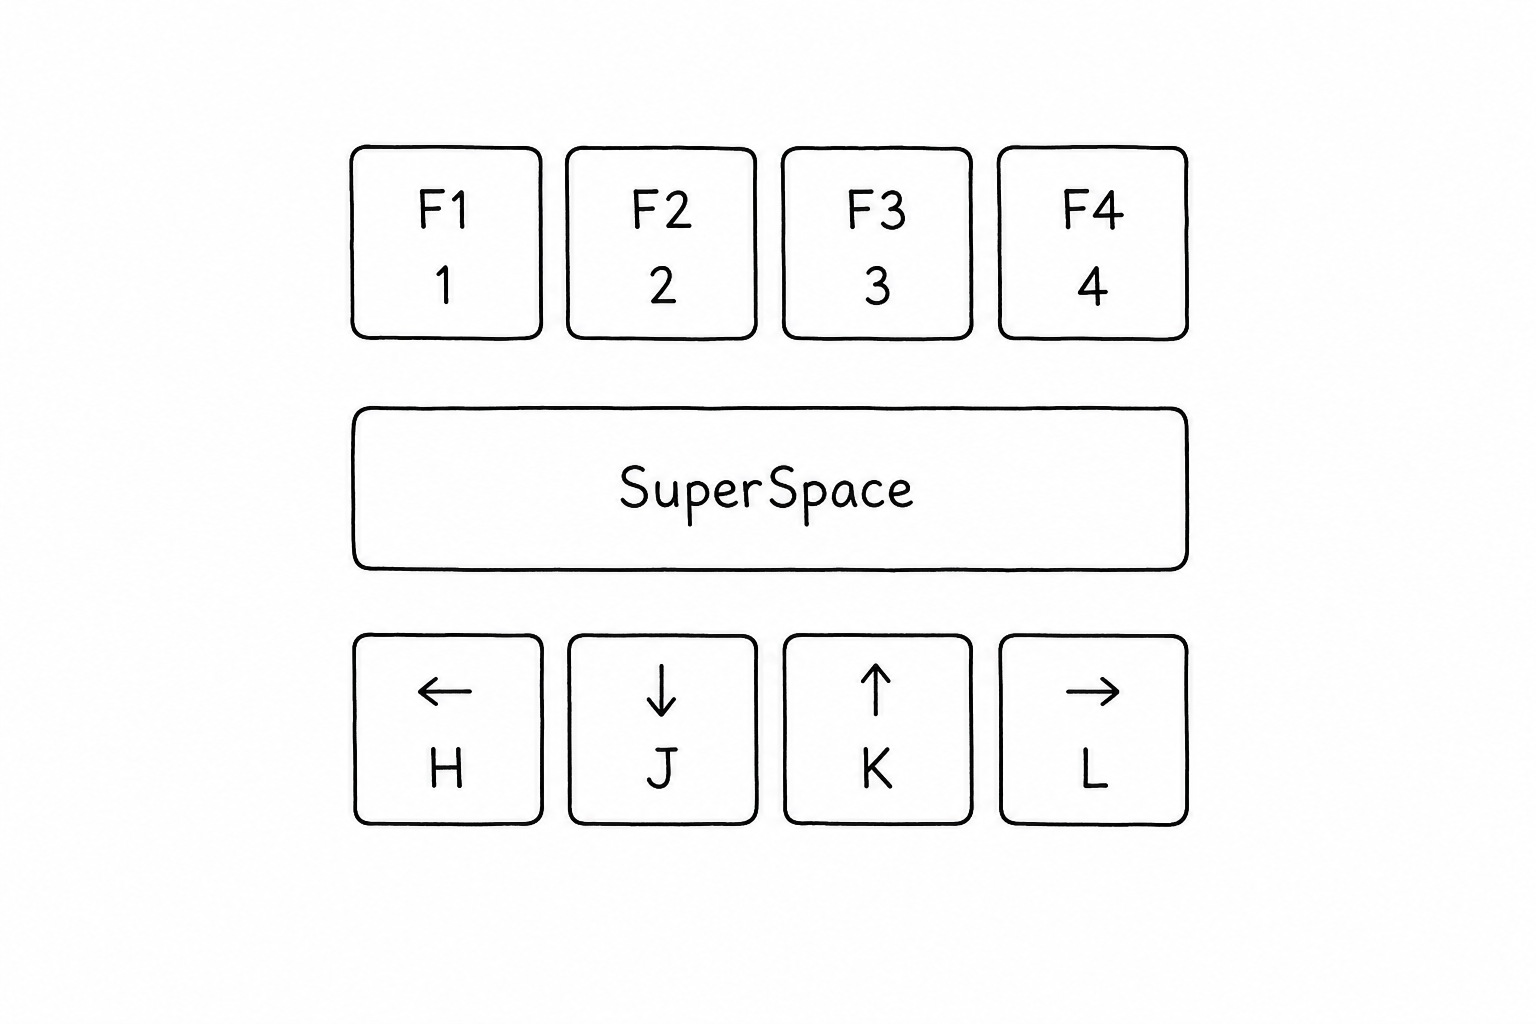
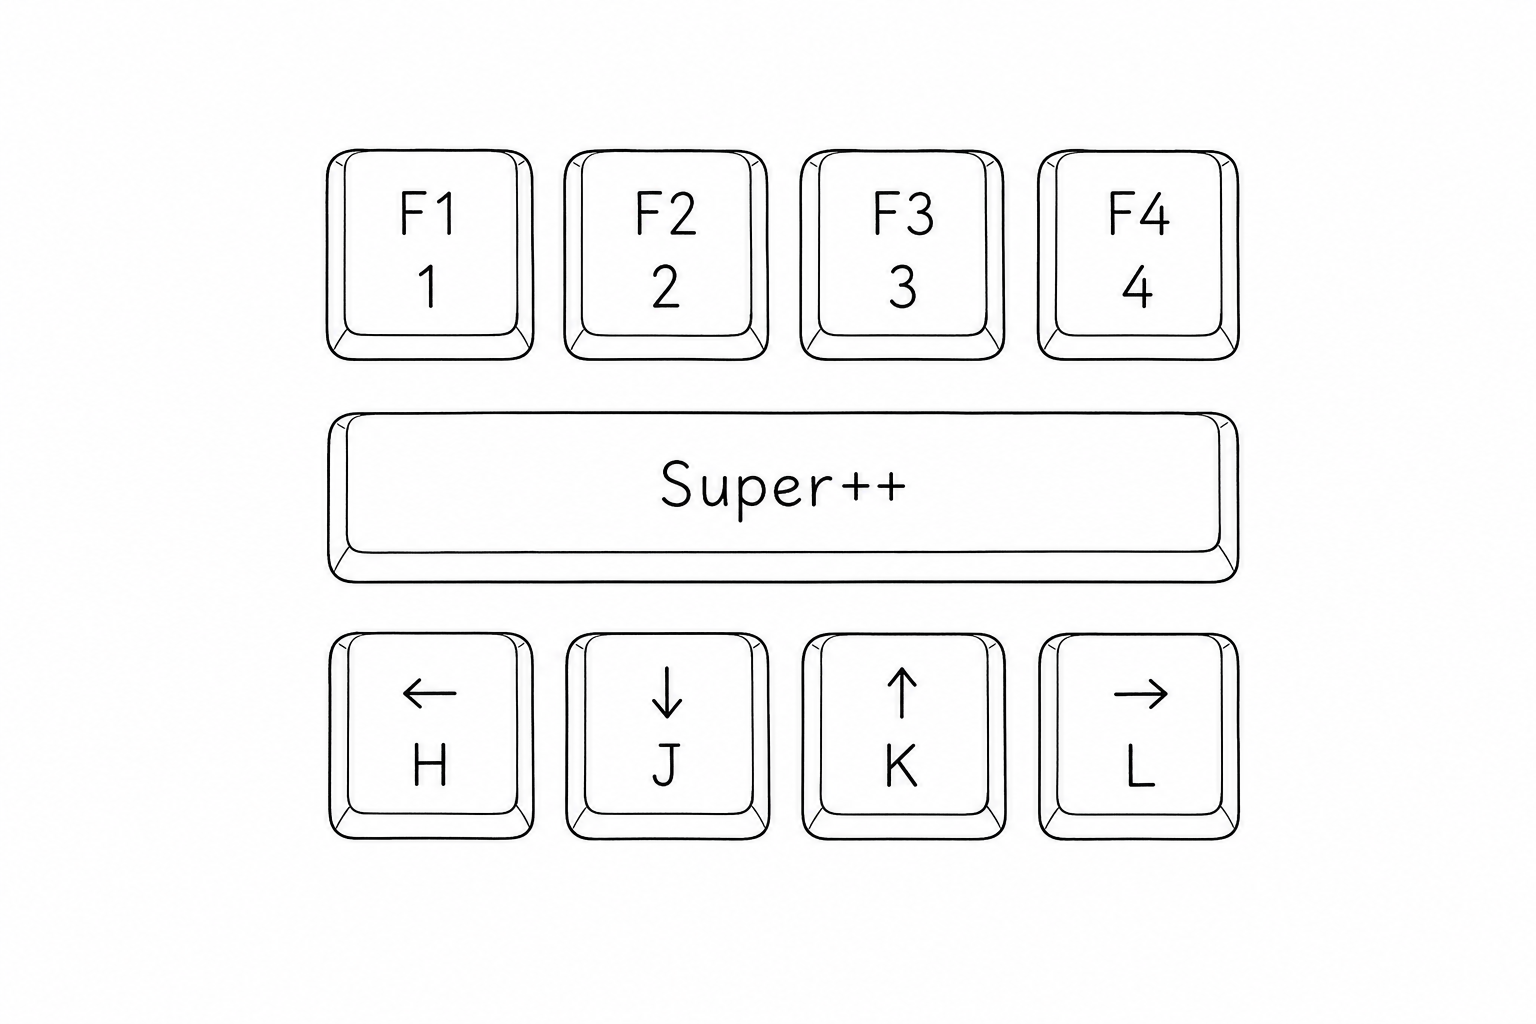
rename: unify product name to Super++ (v1.1.0)

diff --git a/src/main.rs b/src/main.rs
@@ -1,5 +1,5 @@
-//! Space++ for Windows: the space bar becomes a Hyper key.
-//! Port of the macOS version (SuperSpace); the state machine is in
+//! Super++ for Windows: the space bar becomes a Hyper key.
+//! Port of the macOS original; the state machine is in
 //! `state_machine.rs`, this file wires it to the OS (hook, tray, config).
 
 #![cfg_attr(not(test), windows_subsystem = "windows")]
@@ -166,7 +166,7 @@ unsafe extern "system" fn wnd_proc(hwnd: HWND, msg: u32, wparam: WPARAM, lparam:
                                 .map(|a| a.about_text.clone())
                                 .unwrap_or_default()
                         });
-                        let title = wide("关于 Space++ (Win)");
+                        let title = wide("关于 Super++");
                         let body = wide(&text);
                         MessageBoxW(hwnd, body.as_ptr(), title.as_ptr(), MB_OK | MB_ICONINFORMATION);
                     }
@@ -203,7 +203,7 @@ unsafe extern "system" fn wnd_proc(hwnd: HWND, msg: u32, wparam: WPARAM, lparam:
 }
 
 fn error_box(text: &str) {
-    let title = wide("Space++ (Win)");
+    let title = wide("Super++");
     let body = wide(text);
     unsafe {
         MessageBoxW(std::ptr::null_mut(), body.as_ptr(), title.as_ptr(), MB_OK | MB_ICONERROR);
@@ -214,11 +214,11 @@ fn main() {
     logger::init();
 
     // Single instance.
-    let mutex_name = wide("SpacePP_Win_SingleInstance");
+    let mutex_name = wide("SuperPP_Win_SingleInstance");
     unsafe {
         CreateMutexW(std::ptr::null(), 0, mutex_name.as_ptr());
         if GetLastError() == ERROR_ALREADY_EXISTS {
-            error_box("Space++ 已在运行。");
+            error_box("Super++ 已在运行。");
             return;
         }
     }
@@ -232,11 +232,11 @@ fn main() {
         .as_ref()
         .map(|p| p.display().to_string())
         .unwrap_or_else(|| "(内置默认配置)".to_string());
-    logger::log(&format!("[SpacePP] start, config: {config_desc}"));
+    logger::log(&format!("[Super++] start, config: {config_desc}"));
 
     // Hidden window that owns the tray icon.
     let hinstance = unsafe { GetModuleHandleW(std::ptr::null()) };
-    let class_name = wide("SpacePPWnd");
+    let class_name = wide("SuperPPWnd");
     let mut wc: WNDCLASSW = unsafe { std::mem::zeroed() };
     wc.lpfnWndProc = Some(wnd_proc);
     wc.hInstance = hinstance;
@@ -245,7 +245,7 @@ fn main() {
         error_box("窗口类注册失败。");
         return;
     }
-    let title = wide("Space++");
+    let title = wide("Super++");
     let hwnd = unsafe {
         CreateWindowExW(
             0,
@@ -267,9 +267,9 @@ fn main() {
         return;
     }
 
-    let tray = Tray::new(hwnd, &format!("Space++ {VERSION} - 正在运行"));
+    let tray = Tray::new(hwnd, &format!("Super++ {VERSION} - 正在运行"));
     let about_text = format!(
-        "Space++ (Win) 版本 {VERSION}\n\n将空格键变成 Hyper 键的键盘效率工具。\n\n配置文件：{config_desc}\n日志：%TEMP%\\spacepp.log\n\n© 2026 Quan Zhou"
+        "Super++ 版本 {VERSION}\n\n将空格键变成 Hyper 键的键盘效率工具。\n\n配置文件：{config_desc}\n日志：%TEMP%\\superpp.log\n\n© 2026 Quan Zhou"
     );
 
     APP.with(|cell| {
@@ -296,7 +296,7 @@ fn main() {
         });
         return;
     }
-    logger::log("[SpacePP] keyboard hook ready");
+    logger::log("[Super++] keyboard hook ready");
     lock_guard::enable();
 
     let mut msg: MSG = unsafe { std::mem::zeroed() };
@@ -317,5 +317,5 @@ fn main() {
             app.tray.remove();
         }
     });
-    logger::log("[SpacePP] exit");
+    logger::log("[Super++] exit");
 }

diff --git a/src/config.rs b/src/config.rs
@@ -52,18 +52,21 @@ pub struct Config {
     pub map: HashMap<u16, Vec<Keys>>,
     pub verbose: VerboseConfig,
     pub hold_as_hyper: bool,
-    /// Foreground process exe names for which Space++ is disabled.
+    /// Foreground process exe names for which Super++ is disabled.
     pub blacklist: Vec<String>,
     pub path: Option<PathBuf>,
 }
 
-/// Same lookup order as the mac version: SPACEPP_CONFIG env var,
-/// then config.json next to the executable, then the current directory.
+/// Same lookup order as the mac version: SUPERPP_CONFIG (or legacy
+/// SPACEPP_CONFIG) env var, then config.json next to the executable,
+/// then the current directory.
 pub fn resolve_path() -> Option<PathBuf> {
-    if let Ok(p) = env::var("SPACEPP_CONFIG") {
-        let p = PathBuf::from(p);
-        if p.exists() {
-            return Some(p);
+    for key in ["SUPERPP_CONFIG", "SPACEPP_CONFIG"] {
+        if let Ok(p) = env::var(key) {
+            let p = PathBuf::from(p);
+            if p.exists() {
+                return Some(p);
+            }
         }
     }
     if let Ok(exe) = env::current_exe() {

diff --git a/src/lock_guard.rs b/src/lock_guard.rs
@@ -2,9 +2,9 @@
 //!
 //! winlogon matches Win+L on raw input, before low-level hook suppression
 //! applies, so a physical Win+L cannot be blocked from user mode. Instead,
-//! while Space++ runs, the DisableLockWorkstation policy is enabled so the
+//! while Super++ runs, the DisableLockWorkstation policy is enabled so the
 //! OS ignores Win+L entirely; an intentional bare Win+L (Win held in IDLE)
-//! is detected by the hook and Space++ locks the workstation itself by
+//! is detected by the hook and Super++ locks the workstation itself by
 //! briefly lifting the policy around a LockWorkStation() call. The policy
 //! is re-enabled when the session unlocks.
 
@@ -70,7 +70,7 @@ fn set_lock_disabled(disabled: bool) -> bool {
     status == 0 || (!disabled && status == 2)
 }
 
-/// Called on startup: OS-level Win+L off while Space++ runs.
+/// Called on startup: OS-level Win+L off while Super++ runs.
 pub fn enable() {
     if set_lock_disabled(true) {
         logger::log("[lock_guard] Win+L policy guard enabled");

diff --git a/src/logger.rs b/src/logger.rs
@@ -1,6 +1,5 @@
 //! Minimal file logger. The exe is a windows-subsystem binary (no console),
-//! so verbose output goes to %TEMP%\spacepp.log, mirroring the mac
-//! version's /tmp/spacepp.out.
+//! so verbose output goes to %TEMP%\superpp.log.
 
 use std::fs::{File, OpenOptions};
 use std::io::Write;
@@ -9,7 +8,7 @@ use std::sync::Mutex;
 static LOG: Mutex<Option<File>> = Mutex::new(None);
 
 pub fn init() {
-    let path = std::env::temp_dir().join("spacepp.log");
+    let path = std::env::temp_dir().join("superpp.log");
     if let Ok(f) = OpenOptions::new().create(true).append(true).open(&path) {
         *LOG.lock().unwrap() = Some(f);
     }

diff --git a/src/tray.rs b/src/tray.rs
@@ -187,7 +187,7 @@ pub fn show_menu(hwnd: HWND, autostart_enabled: bool) -> usize {
         if menu.is_null() {
             return 0;
         }
-        let about = wide("关于 Space++ (Win)");
+        let about = wide("关于 Super++");
         let autostart = wide("开机自启");
         let exit = wide("退出");
         AppendMenuW(menu, MF_STRING, MENU_ABOUT, about.as_ptr());

diff --git a/src/autostart.rs b/src/autostart.rs
@@ -8,7 +8,7 @@ use windows_sys::Win32::System::Registry::{
 use crate::tray::wide;
 
 const RUN_KEY: &str = r"Software\Microsoft\Windows\CurrentVersion\Run";
-const VALUE_NAME: &str = "SpacePP";
+const VALUE_NAME: &str = "Super++";
 
 fn open_run_key(access: u32) -> Option<HKEY> {
     let subkey = wide(RUN_KEY);

diff --git a/README.md b/README.md
@@ -1,7 +1,7 @@
-# Space++ for Windows
+# Super++ for Windows
 
 <p align="center">
-  <img src="docs/assets/hero.png" alt="Space++ — the space bar becomes a powerful Hyper key" width="720">
+  <img src="docs/assets/hero.png" alt="Super++ — the space bar becomes a powerful Hyper key" width="720">
 </p>
 
 <p align="center">
@@ -13,7 +13,7 @@
 
 **Keep your hands on the home row. Turn the space bar into a Hyper key.**
 
-Space++ lets you hold <kbd>Space</kbd> and use the keys already under your
+Super++ lets you hold <kbd>Space</kbd> and use the keys already under your
 fingers for arrows, page navigation, word/line deletion, copy/paste, and
 function keys — no reaching for the arrow cluster, <kbd>Home</kbd>/<kbd>End</kbd>,
 or the <kbd>F</kbd> row. Tap <kbd>Space</kbd> and it's still just a space.
@@ -28,7 +28,7 @@ The arrow keys, <kbd>Home</kbd>/<kbd>End</kbd>, <kbd>Page Up/Down</kbd>, and
 <kbd>Delete</kbd> are all far from the home row. Every trip there breaks your
 flow and slows you down.
 
-Space++ solves this by overloading the one key your thumbs already rest on:
+Super++ solves this by overloading the one key your thumbs already rest on:
 
 - **No home-row exits** — move the caret, jump lines, page through documents,
   and delete by word or line without moving your hands.
@@ -42,9 +42,9 @@ Space++ solves this by overloading the one key your thumbs already rest on:
 
 ## Quick start
 
-1. Download `SpacePP-<version>-windows-x86_64.zip` from the
+1. Download `SuperPP-<version>-windows-x86_64.zip` from the
    [Releases](https://github.com/zzqq2199/SuperSpaceWin/releases) page.
-2. Unzip and run `spacepp-win.exe`.
+2. Unzip and run `superpp-win.exe`.
 3. A tray icon appears (gray = idle, orange = Hyper active). That's it — start
    holding <kbd>Space</kbd>.
 
@@ -72,7 +72,7 @@ customizable in `config.json`.
 | <kbd>Space</kbd>+<kbd>/</kbd> | Delete to line end | Shift+End, Delete |
 | <kbd>Space</kbd>+<kbd>C</kbd> / <kbd>V</kbd> | Copy / paste | Ctrl+C / Ctrl+V |
 | <kbd>Space</kbd>+<kbd>1</kbd>…<kbd>0</kbd> <kbd>-</kbd> <kbd>=</kbd> | Function keys | F1…F12 |
-| <kbd>Space</kbd>+<kbd>Q</kbd> | Quit Space++ | — |
+| <kbd>Space</kbd>+<kbd>Q</kbd> | Quit Super++ | — |
 
 Holding <kbd>Space</kbd> by itself enters Hyper mode (`hold_as_hyper: true`); a
 quick tap still types a space.
@@ -80,7 +80,7 @@ quick tap still types a space.
 ## How it works
 
 The hard part is telling "typing a space" apart from "using Space as a
-modifier", without adding lag. Space++ defers the decision through a small
+modifier", without adding lag. Super++ defers the decision through a small
 state machine (identical to the macOS version):
 
 ```mermaid
@@ -103,8 +103,8 @@ selects text.
 
 ## Configuration
 
-Space++ runs on the embedded default config. To customize, place a `config.json`
-next to the exe (or point `SPACEPP_CONFIG` at one). It uses the same JSON shape
+Super++ runs on the embedded default config. To customize, place a `config.json`
+next to the exe (or point `SUPERPP_CONFIG` at one). It uses the same JSON shape
 and key names as the macOS version — `command` is translated to Ctrl, `option`
 to Alt, and `delete` means Backspace. A mapping value may also be an **array**
 to express a key sequence:
@@ -115,7 +115,7 @@ to express a key sequence:
 
 ### Blacklist — pass through for specific apps
 
-When the foreground window belongs to a listed process, Space++ gets out of the
+When the foreground window belongs to a listed process, Super++ gets out of the
 way entirely (a space is just a space). Handy for games that need raw keys.
 Process names are case-insensitive:
 
@@ -132,7 +132,7 @@ Moving windows with <kbd>Space</kbd>+<kbd>Win</kbd>+<kbd>H</kbd>/<kbd>J</kbd>/<k
 is a natural gesture, but <kbd>Win</kbd>+<kbd>L</kbd> would normally lock your
 PC. `Win+L` is matched by winlogon on raw input, *before* a keyboard hook can
 suppress it — so it can't be blocked from user space (PowerToys can't remap it
-either). Space++ handles this with a policy guard instead:
+either). Super++ handles this with a policy guard instead:
 
 - While running, it sets `DisableLockWorkstation` for the current user, so the
   OS ignores <kbd>Win</kbd>+<kbd>L</kbd> and `Space+Win+L` safely moves the
@@ -141,8 +141,8 @@ either). Space++ handles this with a policy guard instead:
   locks via `LockWorkStation()`; the guard is re-armed after you unlock.
 - On clean exit, the registry value is removed and native behavior is restored.
 
-> If Space++ is force-killed instead of exiting cleanly, the policy value can
-> linger and <kbd>Win</kbd>+<kbd>L</kbd> stays disabled. Run Space++ once more
+> If Super++ is force-killed instead of exiting cleanly, the policy value can
+> linger and <kbd>Win</kbd>+<kbd>L</kbd> stays disabled. Run Super++ once more
 > and exit it normally to restore. While the guard is active, the "Lock" entry
 > in the Start menu is also hidden by this Windows policy.
 
@@ -152,8 +152,8 @@ either). Space++ handles this with a policy guard instead:
 | --- | --- | --- |
 | `hyper_keys_map` | object | Source key → target chord (or array of chords) |
 | `hold_as_hyper` | bool | Holding Space alone enters Hyper mode |
-| `blacklist` | string[] | Foreground process names where Space++ is disabled |
-| `verbose.on_state` / `on_event` / `on_action` | bool | Debug logging to `%TEMP%\spacepp.log` |
+| `blacklist` | string[] | Foreground process names where Super++ is disabled |
+| `verbose.on_state` / `on_event` / `on_action` | bool | Debug logging to `%TEMP%\superpp.log` |
 
 ## Building
 

diff --git a/docs/BUILDING.md b/docs/BUILDING.md
@@ -1,6 +1,6 @@
 # Building & Releasing
 
-Developer notes for Space++ (Windows). End users don't need any of this —
+Developer notes for Super++ (Windows). End users don't need any of this —
 grab a prebuilt exe from the [Releases](https://github.com/zzqq2199/SuperSpaceWin/releases) page.
 
 ## Prerequisites
@@ -12,7 +12,7 @@ grab a prebuilt exe from the [Releases](https://github.com/zzqq2199/SuperSpaceWi
 
 ```powershell
 cargo build --release
-.\target\release\spacepp-win.exe
+.\target\release\superpp-win.exe
 ```
 
 The result is a single static exe (~340 KB) with no runtime dependencies.
@@ -34,10 +34,10 @@ cargo test
 
 ```powershell
 .\scripts\publish.ps1
-.\publish\spacepp-win.exe
+.\publish\superpp-win.exe
 ```
 
-It builds the release exe, copies it to `publish\spacepp-win.exe`, and creates
+It builds the release exe, copies it to `publish\superpp-win.exe`, and creates
 `publish\config.json` as a **relative symlink** to the repo-root `config.json`
 (so editing the repo config takes effect immediately after a restart).
 
@@ -49,14 +49,14 @@ Notes:
   After cloning, run `git config core.symlinks true` so the link checks out
   correctly.
 - If the published exe is running (and therefore locked), the script renames it
-  to `spacepp-win.exe.old` and writes the fresh build alongside; restart the app
+  to `superpp-win.exe.old` and writes the fresh build alongside; restart the app
   to pick it up.
 
 ## Configuration resolution order
 
 At startup the config is resolved in this order:
 
-1. `SPACEPP_CONFIG` environment variable (if it points to an existing file)
+1. `SUPERPP_CONFIG` environment variable (if it points to an existing file)
 2. `config.json` next to the executable
 3. `config.json` in the current working directory
 4. the embedded default (full mapping) if none of the above exist
@@ -64,7 +64,7 @@ At startup the config is resolved in this order:
 ## Logging
 
 When any `verbose` flag is enabled in `config.json`, logs are appended to
-`%TEMP%\spacepp.log`. With verbose off, only lifecycle lines (start, hook
+`%TEMP%\superpp.log`. With verbose off, only lifecycle lines (start, hook
 ready, exit) are written. See the privacy note below.
 
 > **Privacy:** `verbose.on_event` records every physical key code — treat it as
